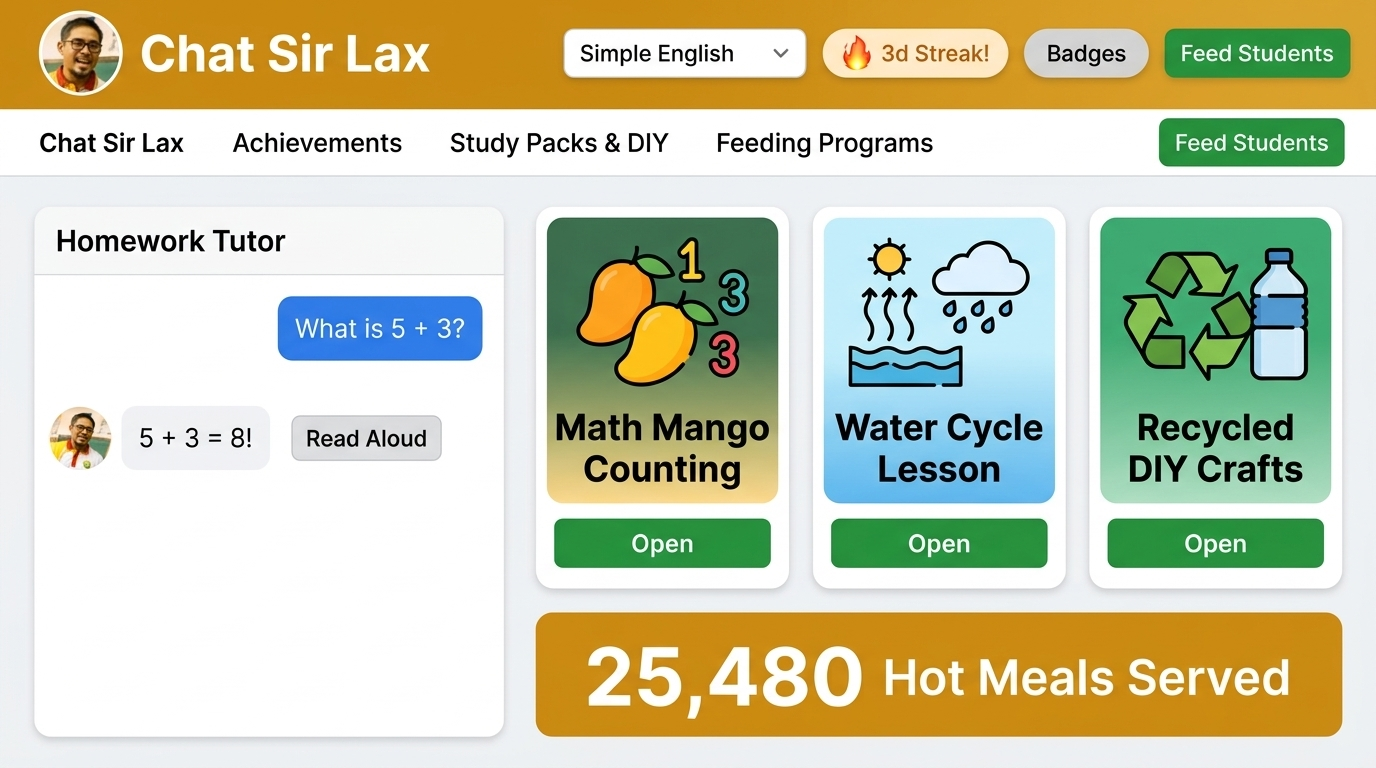
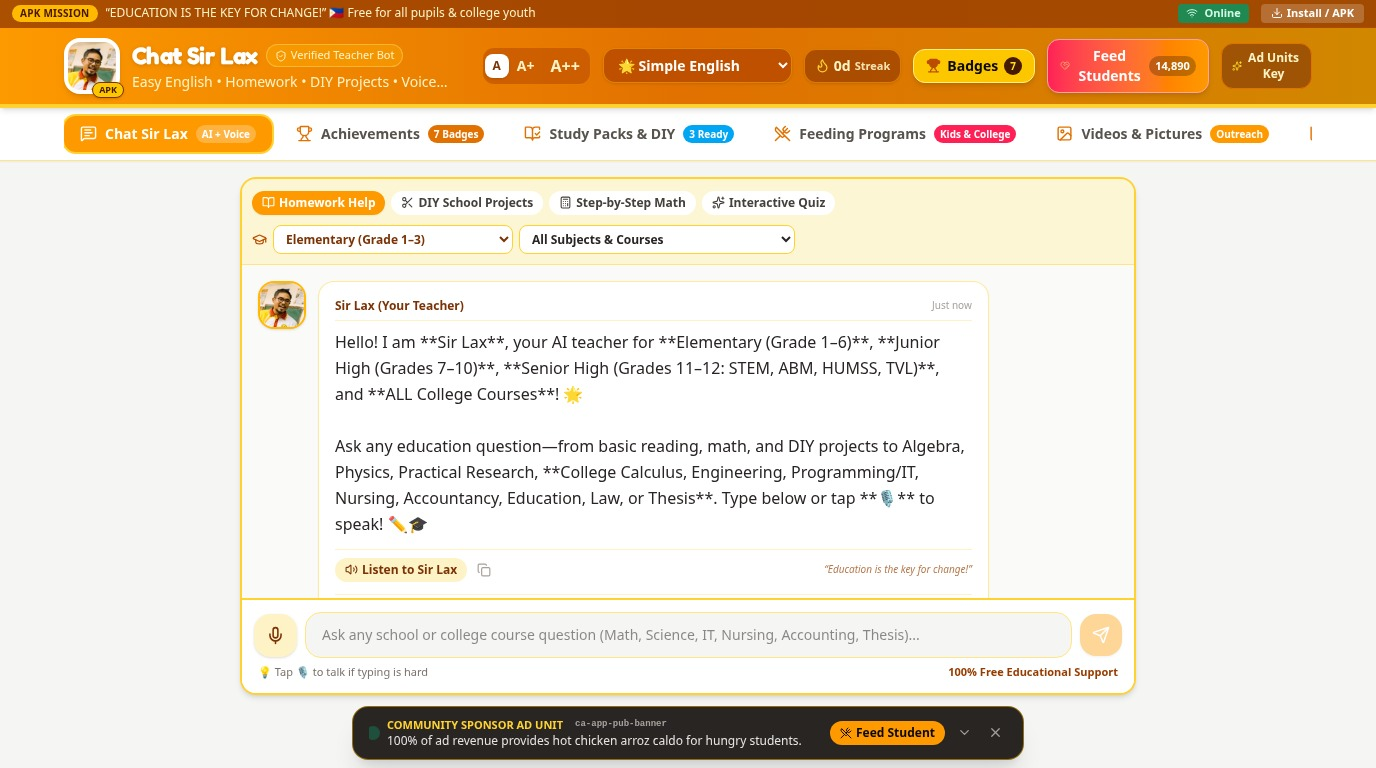
feat: update app metadata and localize assets
- Update manifest with new screenshots and labels
- Optimize image loading with referrer policy
- Use local assets for feeding program data

diff --git a/src/data/mockData.ts b/src/data/mockData.ts
@@ -1,4 +1,8 @@
 import { FeedingProgramDrive, MediaItem, OfflineStudyPack, CommunityStats } from '../types';
+import phElementaryChildrenImg from '../assets/images/ph_elementary_children_1795703285063.jpg';
+import phHighschoolStudentsImg from '../assets/images/ph_highschool_students_1795703287012.jpg';
+import phCollegeScholarsImg from '../assets/images/ph_college_scholars_1795703286889.jpg';
+import phBarangayFeedingImg from '../assets/images/ph_barangay_feeding_1795703286990.jpg';
 
 export const SIR_LAX_AVATAR = '/assets/aistudio/Chat_Sir_Lax_7ef7468b.png';
 
@@ -254,7 +258,7 @@ export const MOCK_FEEDING_DRIVES: FeedingProgramDrive[] = [
     mealsServed: 450,
     highlight: 'Served hot chicken arroz caldo with boiled eggs, distributed pencils and Sir Lax offline flashcards to 200 early-grade pupils.',
     status: 'Completed',
-    image: 'https://images.unsplash.com/photo-1488521787991-ed7bbaae773c?auto=format&fit=crop&w=800&q=80',
+    image: phBarangayFeedingImg,
   },
   {
     id: 'drive-2',
@@ -263,20 +267,20 @@ export const MOCK_FEEDING_DRIVES: FeedingProgramDrive[] = [
     date: 'October 18, 2026',
     location: 'University Town Study Hub & Dorm Walkway',
     mealsServed: 320,
-    highlight: 'Provided warm soup, hard-boiled eggs, coffee, and free high-speed offline APK download station for working working-class college students.',
+    highlight: 'Provided warm chicken arroz caldo, boiled eggs, coffee, and free offline study support for working-class college students.',
     status: 'Completed',
-    image: 'https://images.unsplash.com/photo-1523240795612-9a054b0db644?auto=format&fit=crop&w=800&q=80',
+    image: phCollegeScholarsImg,
   },
   {
     id: 'drive-3',
-    title: 'Weekend Saturday Grand Feeding & DIY Science Fair',
+    title: 'Weekend Saturday Grand Feeding & High School Science Fair',
     targetGroup: 'All Students',
     date: 'Coming this Saturday',
     location: 'Riverside Community Multi-Purpose Hall',
     mealsServed: 600,
-    highlight: 'Goal to feed 600 hungry children and struggling college scholars. Free haircut, math checkup, and recycled bottle toy assembly.',
+    highlight: 'Goal to feed 600 hungry children, Junior/Senior High youth, and struggling college scholars with free math coaching and recycled bottle projects.',
     status: 'Upcoming This Saturday',
-    image: 'https://images.unsplash.com/photo-1509062522246-3755977927d7?auto=format&fit=crop&w=800&q=80',
+    image: phHighschoolStudentsImg,
   },
   {
     id: 'drive-4',
@@ -285,9 +289,9 @@ export const MOCK_FEEDING_DRIVES: FeedingProgramDrive[] = [
     date: 'Mondays to Fridays 6:30 AM',
     location: 'Central Public School Gate Entrance',
     mealsServed: 210,
-    highlight: 'Warm nutritious oats and champorado for kids who walk 2 kilometers on empty stomachs before starting classes.',
+    highlight: 'Warm nutritious arroz caldo and champorado for elementary kids who walk 2 kilometers on empty stomachs before starting classes.',
     status: 'Daily Ongoing',
-    image: 'https://images.unsplash.com/photo-1577896851231-70ef18881754?auto=format&fit=crop&w=800&q=80',
+    image: phElementaryChildrenImg,
   },
 ];
 
@@ -307,56 +311,56 @@ export const MOCK_GALLERY_ITEMS: MediaItem[] = [
   {
     id: 'p-2',
     type: 'picture',
-    title: 'Hot Chicken Arroz Caldo for 400 Kids',
+    title: 'Hot Chicken Arroz Caldo Served at Barangay Covered Court',
     category: 'Feeding Program',
-    thumbnail: 'https://images.unsplash.com/photo-1541802645635-11f2286a7482?auto=format&fit=crop&w=800&q=80',
+    thumbnail: phBarangayFeedingImg,
     date: 'October 2026',
-    location: 'Sitio Tabing Ilog',
-    description: 'Volunteer moms and college youth stirring giant cauldrons of nutrient-packed rice soup with ginger, garlic, chicken, and eggs.',
+    location: 'Barangay Covered Court, Philippines',
+    description: 'Community volunteer mothers and elders serving steaming bowls of nutrient-packed rice soup with ginger, chicken, and boiled eggs to local elementary and high school pupils.',
     impactQuote: '"You cannot teach a mind that is thinking about hunger. We fill their stomachs first, then we fill their minds!"',
   },
   {
     id: 'p-3',
     type: 'picture',
-    title: 'College Scholars Receiving Study Stipends and Meals',
+    title: 'Working & Needy College Scholars Studying with Warm Meals',
     category: 'College Scholars',
-    thumbnail: 'https://images.unsplash.com/photo-1529156069898-49953e39b3ac?auto=format&fit=crop&w=800&q=80',
+    thumbnail: phCollegeScholarsImg,
     date: 'September 2026',
-    location: 'Public State College Gate',
-    description: 'Supporting 45 working college students with monthly food vouchers, jeepney fare assistance, and free thesis typing access.',
+    location: 'Community Study Pantry, Philippines',
+    description: 'Hardworking Filipino college youth in Accountancy and Engineering reviewing heavy textbooks under the evening study lamp while nourished with hot bowls of arroz caldo.',
     impactQuote: '"Education is the only inheritance poverty cannot steal."',
   },
   {
     id: 'p-4',
     type: 'picture',
-    title: 'Young Inventors Displaying Recycled Bottle Projects',
+    title: 'Junior & Senior High Students Building Recycled Bottle Projects',
     category: 'DIY Workshop',
-    thumbnail: 'https://images.unsplash.com/photo-1503676260728-1c00da094a0b?auto=format&fit=crop&w=800&q=80',
+    thumbnail: phHighschoolStudentsImg,
     date: 'September 2026',
-    location: 'Barangay Covered Gym',
-    description: 'Students proudly showing off desk organizers, toy airplanes, and water filters built from empty soda bottles picked from their neighborhoods.',
+    location: 'Philippine Public High School Hallway',
+    description: 'Filipino Junior and Senior High School students collaborating on Algebra equations and environmental science projects crafted from recycled plastic bottles.',
     impactQuote: '"Creativity costs zero pesos when your teacher believes in you."',
   },
   {
     id: 'p-5',
     type: 'picture',
-    title: 'Grade 1 Pupils Listening to Voice Reading Practice',
+    title: 'Filipino Elementary Pupils Sharing Digital Math Lessons',
     category: 'Classroom Tutoring',
-    thumbnail: 'https://images.unsplash.com/photo-1580582932707-520aed937b7b?auto=format&fit=crop&w=800&q=80',
+    thumbnail: phElementaryChildrenImg,
     date: 'August 2026',
-    location: 'Community Library Corner',
-    description: 'Pupils using old donated Android phones running Chat Sir Lax APK to listen to letter sounds over and over without data charges.',
-    impactQuote: '"Voice features make education accessible to children who still struggle to hold a pencil."',
+    location: 'Barangay Learning Corner, Philippines',
+    description: 'Smiling public elementary school children gathering around a shared phone and open notebooks on wooden benches to master fractions and phonics together.',
+    impactQuote: '"One shared device and patient guidance can light up an entire classroom."',
   },
   {
     id: 'p-6',
     type: 'picture',
-    title: 'College Youth Group Distributing Breakfast Lugaw',
+    title: 'High School & College Mentors Supporting Barangay Kids',
     category: 'Feeding Program',
-    thumbnail: 'https://images.unsplash.com/photo-1488521787991-ed7bbaae773c?auto=format&fit=crop&w=800&q=80',
+    thumbnail: phBarangayFeedingImg,
     date: 'August 2026',
-    location: 'Poblacion Elementary School',
-    description: 'College student beneficiaries giving back by serving hot food to little Grade 1 pupils before morning classes start.',
+    location: 'Poblacion Barangay Court',
+    description: 'Older student scholars and community nanays teaming up to distribute warm morning arroz caldo before the flag ceremony.',
     impactQuote: '"The circle of kindness never ends."',
   },
 
@@ -366,10 +370,10 @@ export const MOCK_GALLERY_ITEMS: MediaItem[] = [
     type: 'video',
     title: 'Mission Video: How Chat Sir Lax Started in the Community',
     category: 'Feeding Program',
-    thumbnail: 'https://images.unsplash.com/photo-1516627145497-ae6968895b74?auto=format&fit=crop&w=800&q=80',
+    thumbnail: phBarangayFeedingImg,
     duration: '04:12',
     date: 'October 2026',
-    location: 'Metro Manila Outreach District',
+    location: 'Philippine Barangay Outreach District',
     description: 'Watch the inspiring story of Sir Lax: walking through narrow alleyways, teaching children on wooden benches, and feeding hungry college students.',
     impactQuote: '"Every child who learns to read is one whole family lifted out of poverty."',
     mediaUrl: 'https://commondatastorage.googleapis.com/gtv-videos-bucket/sample/BigBuckBunny.mp4',
@@ -377,13 +381,13 @@ export const MOCK_GALLERY_ITEMS: MediaItem[] = [
   {
     id: 'v-2',
     type: 'video',
-    title: 'DIY Project Guide: Building an Easy Volcano with Safe Home Vinegar',
+    title: 'High School & DIY Guide: Recycled Science Projects at Zero Cost',
     category: 'DIY Workshop',
-    thumbnail: 'https://images.unsplash.com/photo-1564429238817-393be4286b2d?auto=format&fit=crop&w=800&q=80',
+    thumbnail: phHighschoolStudentsImg,
     duration: '03:45',
     date: 'September 2026',
     location: 'Sir Lax Maker Corner',
-    description: 'Follow step-by-step instructions in ultra-simple English and Filipino. No expensive toys needed!',
+    description: 'Follow step-by-step instructions in ultra-simple English and Filipino for Junior High, Senior High, and Elementary projects without expensive materials!',
     impactQuote: '"Science belongs to everyone, rich or poor."',
     mediaUrl: 'https://commondatastorage.googleapis.com/gtv-videos-bucket/sample/ElephantsDream.mp4',
   },
@@ -392,24 +396,24 @@ export const MOCK_GALLERY_ITEMS: MediaItem[] = [
     type: 'video',
     title: 'College Youth Voices: "How Warm Lugaw & Sir Lax Kept Me in School"',
     category: 'College Scholars',
-    thumbnail: 'https://images.unsplash.com/photo-1523240795612-9a054b0db644?auto=format&fit=crop&w=800&q=80',
+    thumbnail: phCollegeScholarsImg,
     duration: '05:30',
     date: 'September 2026',
-    location: 'State University Dormitory Quad',
-    description: 'Honest, touching interviews from 3 working college students who almost dropped out due to hunger and fare expenses before getting community support.',
+    location: 'Neighborhood Study Pantry',
+    description: 'Honest, touching interviews from working college students who almost dropped out due to hunger and fare expenses before getting community support.',
     impactQuote: '"When somebody believes you can graduate, you find the strength to push another semester."',
     mediaUrl: 'https://commondatastorage.googleapis.com/gtv-videos-bucket/sample/ForBiggerBlazes.mp4',
   },
   {
     id: 'v-4',
     type: 'video',
-    title: 'Grade 1 Phonics Tutorial: Sounds of Letters A, B, C with Sir Lax',
+    title: 'Elementary Reading & Math Tutorial with Sir Lax',
     category: 'Classroom Tutoring',
-    thumbnail: SIR_LAX_AVATAR,
+    thumbnail: phElementaryChildrenImg,
     duration: '06:10',
     date: 'August 2026',
-    location: 'Classroom Studio',
-    description: 'Interactive sing-along video teaching basic letter phonics in clear English for non-English speaking households.',
+    location: 'Barangay Classroom Corner',
+    description: 'Interactive sing-along and step-by-step lesson teaching basic reading and fractions in clear English and Filipino.',
     impactQuote: '"Read every day, shine every way!"',
     mediaUrl: 'https://commondatastorage.googleapis.com/gtv-videos-bucket/sample/ForBiggerEscapes.mp4',
   },

diff --git a/src/components/MediaGalleryTab.tsx b/src/components/MediaGalleryTab.tsx
@@ -125,6 +125,7 @@ export const MediaGalleryTab: React.FC = () => {
                 <img
                   src={item.thumbnail}
                   alt={item.title}
+                  referrerPolicy="no-referrer"
                   className="w-full h-full object-cover transform group-hover:scale-105 transition duration-500"
                 />
 
@@ -234,6 +235,7 @@ export const MediaGalleryTab: React.FC = () => {
                   <img
                     src={activeMediaModal.thumbnail}
                     alt={activeMediaModal.title}
+                    referrerPolicy="no-referrer"
                     className="max-h-[400px] w-auto object-contain"
                   />
                 </div>

diff --git a/src/components/FeedingTab.tsx b/src/components/FeedingTab.tsx
@@ -245,6 +245,7 @@ export const FeedingTab: React.FC<FeedingTabProps> = ({
                 <img
                   src={drive.image}
                   alt={drive.title}
+                  referrerPolicy="no-referrer"
                   className="w-full h-full object-cover transform hover:scale-105 transition duration-500"
                 />
                 <span
